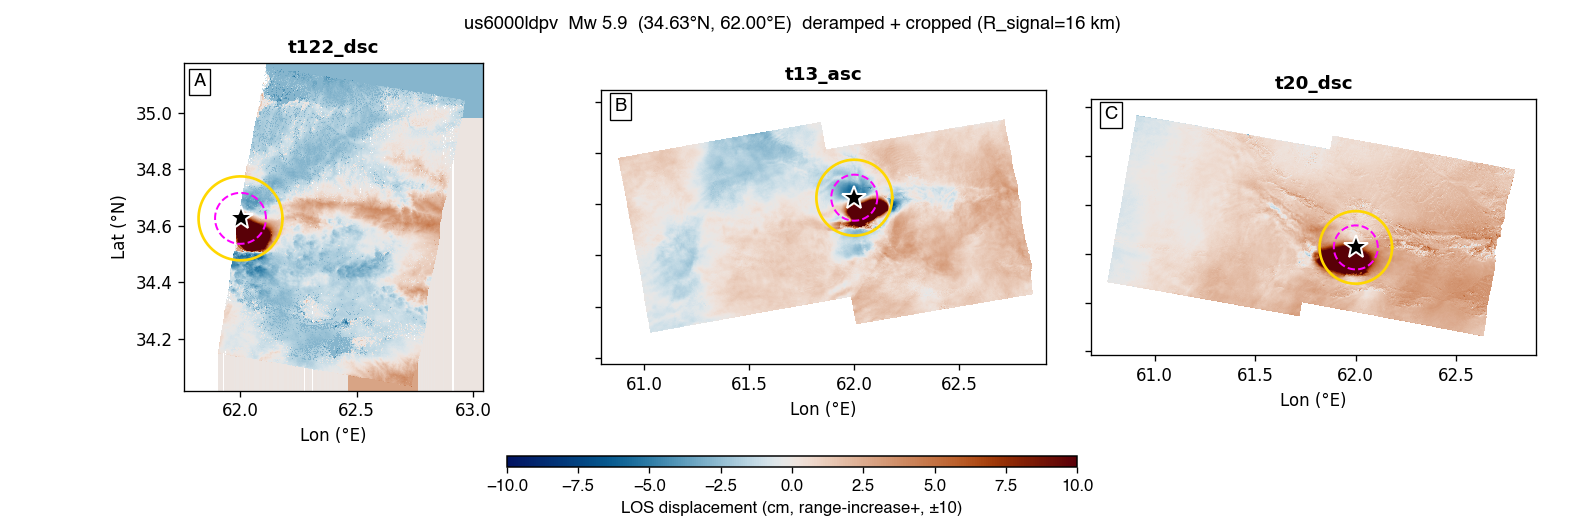
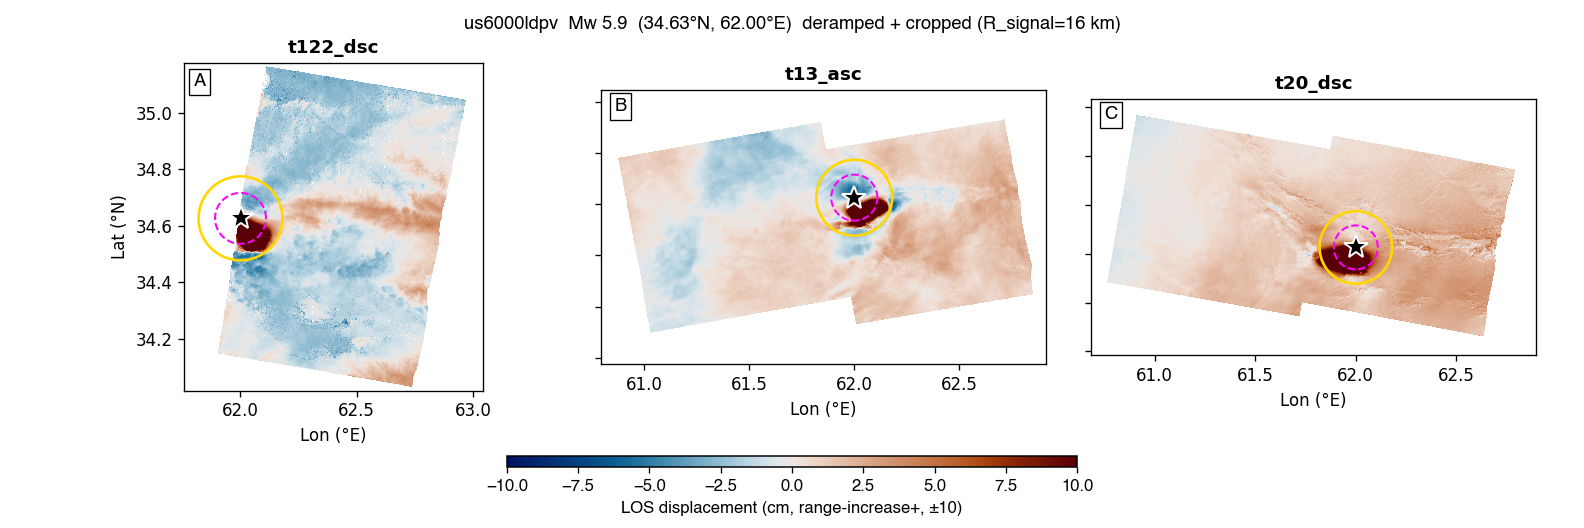
catalog update 2026-05-21T03:27:50Z (79 events)

Changed region(s): [[0.1237, 0.1212, 0.3093, 0.7576]]

diff --git a/events/us6000ldpv/REPORT.html b/events/us6000ldpv/REPORT.html
@@ -26,7 +26,7 @@
 </head><body>
 
 <h1>us6000ldpv — Mw 5.9 — GBIS report</h1>
-<div class="verdict"><b>⛔ FAILED-CASE REPORT — GBIS inversion did NOT pass posterior diagnostics.</b><br>The optimum below is shown for diagnostics only; it is degenerate and must NOT be used as a source model.<br>Pipeline halted — see <code>escalation.md</code> (<b>Escalation: all_runs_bad_diagnostics</b>). This run did not produce a valid deliverable.</div>
+<div class="verdict"><b>⛔ FAILED-CASE REPORT — unreliable inversion.</b><br>Failing axes: <b>railed, delta_mw</b>. The optimum below is for diagnostics only; do NOT use as a source model.<br>Pipeline halted — see <code>escalation.md</code> (<b>Escalation: all_runs_bad_diagnostics</b>).</div>
 
 <div class="summary">
 <b>Event:</b> 35 km NNW of Herāt, Afghanistan · (34.626°N, 62.001°E, depth 12.48 km)<br>
@@ -65,7 +65,7 @@
 </table>
 <p style="font-size:12px;color:#666">震源深度对比：USGS = 报告的震源（hypocenter）深度；GBIS = 断层质心深度 (Z_top+Z_bot)/2。</p>
 <p style="font-size:12px;color:#666">Note: GBIS optimum = single MAP sample reported by GBIS in <code>invResults.model.optimal</code>, NOT a chain median.</p>
-<div class="verdict"><b>Posterior diagnostics: <span class="bad">FAIL</span></b><br>acceptance 0.21 (target 0.20–0.45) · ESS 2818 (≥500) · Geweke |z| 2.0 (≤2)<br>VR per track: t122_dsc 0.52 · t13_asc 0.40 · t20_dsc 0.90 (≥0.50)<br>未通过项: param-at-bound: L,W</div>
+<div class="verdict"><b>Adaptive grade — zone RED</b><br>acceptance 0.21 (0.20–0.45) · ESS 2818 (≥250) · Geweke |z| 1.96 (≤2) · VR_min 0.40<br>grades: ess=A · acceptance=B · geweke=B · vr_min=C · vr_mean=B · railed=D · delta_mw=D · delta_strike=A</div>
 
 <h2>4. Beachball comparison</h2>
 <img src="gbis/np1/figures/04_beachball.png">
@@ -80,5 +80,23 @@
 <h2>7. Burn-in / chain trace</h2>
 <img src="gbis/np1/figures/07_trace.png">
 <p style="font-size:12px;color:#666">Blue shading = SA cooling (first 50k iterations). Gray = post-burnin MCMC. Red horizontal = GBIS reported optimum. Dashed orange = USGS NP1 W&amp;C value.</p>
+
+
+<h2>8. Agent Review (LLM advisory)</h2>
+<div style="background:#f5f8fc;border-left:4px solid #666;
+            padding:11px 14px;margin:12px 0;font-size:13px;line-height:1.55">
+  <div style="font-size:15px"><b style="color:#666">Rating: ?</b>
+   &nbsp;·&nbsp; <i>LLM advisor not invoked</i></div>
+  <div style="margin-top:8px"><b>Recommendation:</b> <code>manual_review</code>
+   &nbsp; <b>Confidence:</b> low</div>
+  
+  <div><b>Concerns:</b><ul style="margin:4px 0"><li>ANTHROPIC_API_KEY not set — to enable LLM advisory, export ANTHROPIC_API_KEY and re-run</li></ul></div>
+  <div><b>Rationale:</b> ANTHROPIC_API_KEY not set — to enable LLM advisory, export ANTHROPIC_API_KEY and re-run</div>
+  
+  <div style="margin-top:10px;color:#777;font-size:11.5px">
+    Advisory only. Generated by claude ?
+    (0 tokens) — not used to drive pipeline actions.
+  </div>
+</div>
 
 </body></html>